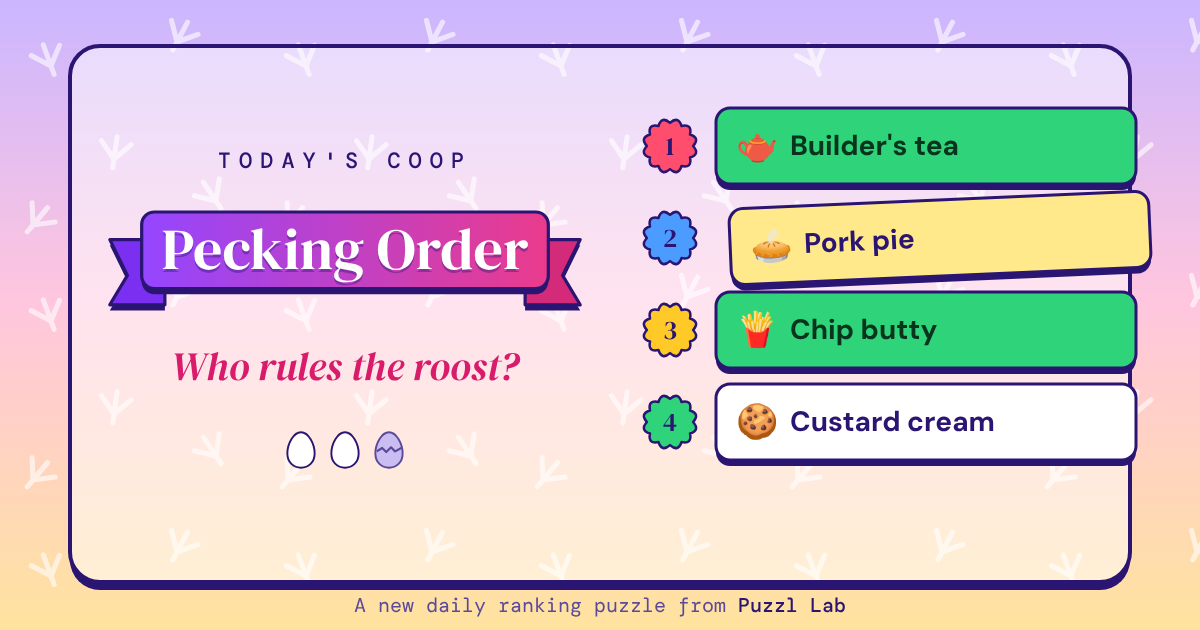
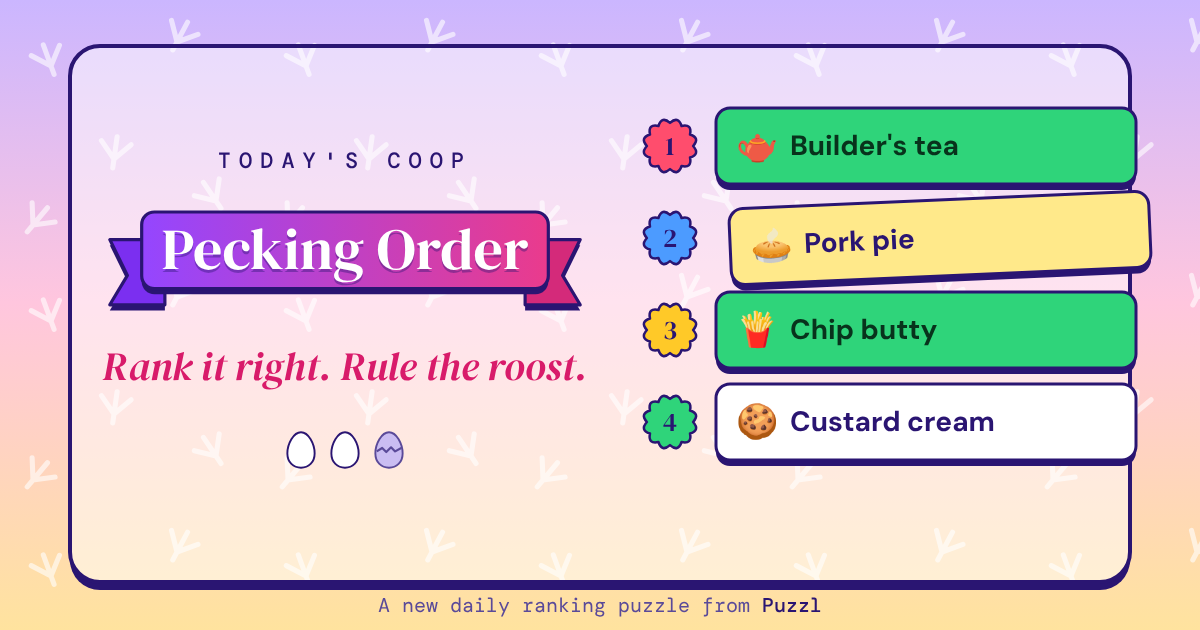
Add files via upload

Changed region(s): [[0.3083, 0.9349, 0.7092, 0.9952], [0.0617, 0.5429, 0.4933, 0.6333]]

diff --git a/index.html b/index.html
@@ -4,12 +4,12 @@
 <meta charset="UTF-8">
 <meta name="viewport" content="width=device-width, initial-scale=1, viewport-fit=cover">
 <meta name="theme-color" content="#cbb6ff">
-<title>Pecking Order · Puzzl Lab</title>
-<meta name="description" content="Five things, one order. Can you rule the roost? A new daily ranking puzzle from Puzzl Lab.">
+<title>Pecking Order · Puzzl</title>
+<meta name="description" content="Five things, one order. Rank it right and rule the roost. A new daily ranking puzzle from Puzzl.">
 <meta property="og:type" content="website">
-<meta property="og:site_name" content="Puzzl Lab">
-<meta property="og:title" content="Pecking Order · Who rules the roost?">
-<meta property="og:description" content="Five things, one order. Can you rule the roost? A new daily ranking puzzle from Puzzl Lab.">
+<meta property="og:site_name" content="Puzzl">
+<meta property="og:title" content="Pecking Order · Rank it right. Rule the roost.">
+<meta property="og:description" content="Five things, one order. Rank it right and rule the roost. A new daily ranking puzzle from Puzzl.">
 <meta property="og:url" content="https://playpuzzl.com/Pecking-Order/">
 <meta property="og:image" content="https://playpuzzl.com/Pecking-Order/og-image.png">
 <meta property="og:image:width" content="1200">
@@ -36,7 +36,7 @@
   padding-top:env(safe-area-inset-top,0px);
 }
 @supports (height:100dvh){:root{--ch:clamp(54px, 7.6dvh, 62px)}}
-/* Pecking Order is the bright one in Puzzl Lab: same palette whatever the viewer's theme */
+/* Pecking Order is the bright one in Puzzl: same palette whatever the viewer's theme */
 @media (prefers-color-scheme:dark){:root:not([data-theme="light"]){--ink:#2a1572;--text:#2a1572}}
 :root[data-theme="dark"]{--ink:#2a1572;--text:#2a1572}
 html{scroll-padding-top:env(safe-area-inset-top,0px);background:var(--bgC)}
@@ -206,7 +206,7 @@ footer b{color:var(--ink);font-weight:500}
     </div>
   </div>
   <h1><span>Pecking Order</span></h1>
-  <p class="sub">Who rules the roost?</p>
+  <p class="sub">Rank it right. Rule the roost.</p>
 
   <div class="question" id="question"></div>
 
@@ -691,7 +691,7 @@ function ribbonDraw(x, t, cx, y, size) {
   return y + h + lip;
 }
 function footerLine(x, cx, y, size) {
-  const a = 'A new daily ranking puzzle from ', b = 'Puzzl Lab';
+  const a = 'A new daily ranking puzzle from ', b = 'Puzzl';
   const fa = `400 ${size}px 'DM Mono',monospace`, fb = `500 ${size}px 'DM Mono',monospace`;
   x.font = fa; const wa = x.measureText(a).width; x.font = fb; const wb = x.measureText(b).width;
   const sx = cx - (wa + wb) / 2; x.textAlign = 'left';
@@ -752,7 +752,7 @@ async function drawShare() {
   let y = top + gh + 92;
   text(x, res, 540, y, "500 32px 'DM Mono',monospace", '#2a1572', '3px');
   if (st > 1) { y += 52; text(x, `${st} DAY STREAK`, 540, y, "500 30px 'DM Mono',monospace", '#2a1572', '6px'); }
-  pill(x, '“Who rules the roost?”', 540, y + 40, 86, 42);
+  pill(x, '“Rank it right. Rule the roost.”', 540, y + 40, 86, 42);
   text(x, SITE_URL.replace(/^https?:\/\//, '').replace(/\/$/, ''), 540, 1236, "400 28px 'DM Mono',monospace", '#5a4a99');
   footerLine(x, 540, 1328, 24);
   return cv;
@@ -777,7 +777,7 @@ async function drawOG() {
   frameLine(x, 70, 46, 1060, 536);
   text(x, "TODAY'S COOP", 345, 168, "500 22px 'DM Mono',monospace", '#2a1572', '8px');
   ribbonDraw(x, 'Pecking Order', 345, 212, 58);
-  text(x, 'Who rules the roost?', 345, 380, "italic 400 40px 'DM Serif Display',Georgia,serif", '#d81b6a');
+  text(x, 'Rank it right. Rule the roost.', 345, 380, "italic 400 40px 'DM Serif Display',Georgia,serif", '#d81b6a');
   [0, 1, 2].forEach(i => eggDraw(x, 301 + i * 44, 450, 30, i < 2 ? '#ffffff' : '#cabdf2', i >= 2));
   // a little ladder of cards
   const cx = 640, cw = 420, ch = 76, cg = 16, items = [['🫖', 'Builder\'s tea'], ['🥧', 'Pork pie'], ['🍟', 'Chip butty'], ['🍪', 'Custard cream']];
